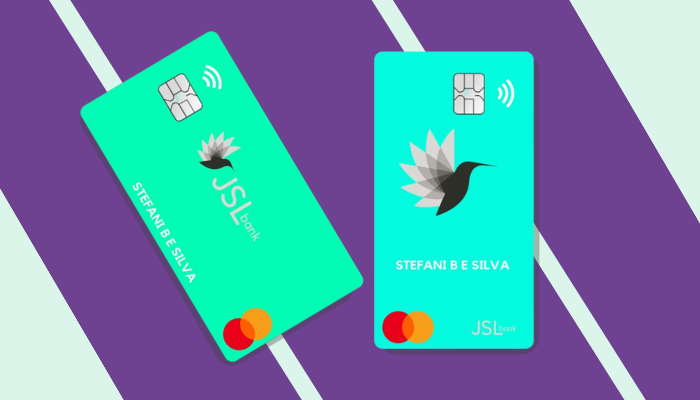
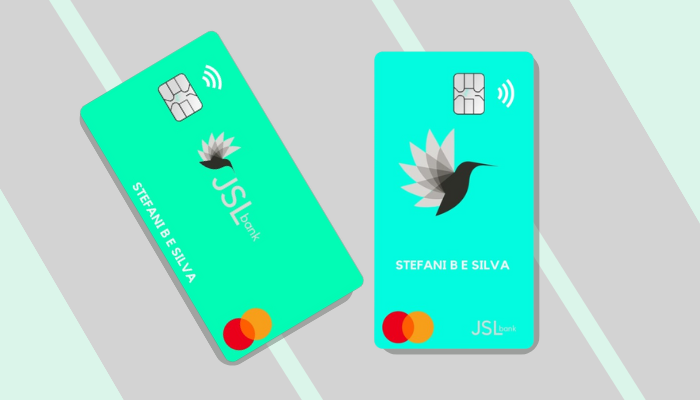
ajustes

diff --git a/styles.css b/styles.css
@@ -7,20 +7,17 @@
 body {
     font-family: 'Roboto', sans-serif;
     max-width: 100vw;
-    color: rgb(55, 19, 85);
-    background: linear-gradient(to bottom, rgba(214, 222, 255, 1) 0%, rgba(214, 222, 255, 1) 60%, rgba(181, 116, 171, 0.8) 90%, rgba(110, 66, 145, 1) 100%);
+    background-color: rgb(219, 245, 234);
+    /* Adaptei a cor de fundo para a sua preferência */
     margin: 0;
-    /* Define margens do corpo como 0 para evitar espaçamento padrão do navegador */
-
-
 }
 
-/* barra de navegação */
+/* Barra de navegação */
 .navbar {
-    background-color: rgba(110, 66, 145, 0.5);
+    background-color: rgba(211, 211, 211, 0.4);
     backdrop-filter: blur(20px);
     border: 1px solid rgba(2, 15, 7, 0.3);
-    box-shadow: 0px 0px 10px 2px rgba(6, 98, 236, 0.3);
+    box-shadow: 0px 0px 10px 2px rgba(2, 90, 53, 0.5);
 }
 
 .logo {
@@ -28,9 +25,8 @@ body {
 }
 
 .nav .nav-link:hover {
-    background-color: rgb(55, 19, 85);
+    background-color: #6A0572;
     color: rgb(95, 206, 95);
-
 }
 
 .nav .nav-link {
@@ -41,11 +37,8 @@ body {
     background-color: #28a745;
 }
 
-/* seção inicio */
+/* Seção Início */
 #sobre {
-
-    color: rgb(55, 19, 85);
-    ;
     align-items: center;
 }
 
@@ -53,10 +46,8 @@ body {
     max-height: 340px;
 }
 
-
-
-.jsl {
-    color: rgb(55, 19, 85);
+.jsl, .jsl2 {
+    color: #6A0572;
 }
 
 .jsl2 {
@@ -70,21 +61,27 @@ body {
 
 /* seção categorias */
 #categorias {
-
     backdrop-filter: blur(10px);
-
     padding-top: 4rem;
     padding-bottom: 3rem;
-
+    position: relative;
+    background-image: url('./images/banner2.png'); /* Substitua pelo caminho da sua imagem */
+    background-size: cover;
+    background-repeat: no-repeat;
+    background-attachment: fixed;
 }
 
 .section-title {
-    color: rgb(30, 5, 51);
-    ;
+    color: #6A0572;
     font-size: 2.5rem;
     font-weight: bold;
 }
 
+.section-title2 {
+    color: #DBF5EA;
+    font-size: 2.5rem;
+    font-weight: bold;
+}
 .text-center i {
     color: #28a745;
     /* Cor do ícone, ajuste conforme necessário */
@@ -97,17 +94,18 @@ body {
     line-height: 1.6;
     /* Ajusta o espaçamento entre linhas */
     margin-left: 12px;
+    color: rgb(13, 1, 24);
 }
 
 .cardcat:hover {
-    background-color: rgba(110, 66, 145, 1);
+    background-color: rgba(106, 5, 114, 0.5);
     transform: scale(1.04);
-    box-shadow: 0px 0px 6px 2px rgba(214, 222, 255, 0.5);
+    box-shadow: 0px 0px 10px 2px rgba(2, 90, 53, 0.5);
 }
 
 
 #service {
-    box-shadow: 0px 0px 10px 2px rgba(6, 98, 236, 0.3);
+    box-shadow: 0px 0px 10px 2px rgba(2, 90, 53, 0.5);
 
 }
 
@@ -120,15 +118,15 @@ aside {
 
 
 .nav-service .nav-link:hover {
-    background-color: rgba(55, 19, 85, 0.5);
+    background-color: #C4A3E9;
     transform: scale(1.02);
-    color: white;
-    box-shadow: 0px 0px 10px 2px rgba(6, 98, 236, 0.3);
+    color: #6A0572;
+    box-shadow: 0px 0px 10px 2px rgba(2, 90, 53, 0.5);
     transition: background-color 0.4s ease, transform 0.4s ease, color 0.4s ease, box-shadow 0.4s ease;
 }
 
 .nav-pills .nav-link.active {
-    background-color: rgb(55, 19, 85);
+    background-color: #6A0572;
     /* Substitua pela cor desejada */
     color: #25D366;
     /* Cor do texto na sua guia ativa */
@@ -136,23 +134,21 @@ aside {
 
 /* tab content */
 .card {
-    background-color: rgba(214, 222, 255, 0.5);
-    backdrop-filter: blur(10px);
+    background-color: rgba(255, 255, 255, 0.2);
+    backdrop-filter: blur(20px);
     /* Ajuste o valor do desfoque conforme necessário */
-    color: rgb(55, 19, 85);
-    box-shadow: 0px 0px 10px 2px rgba(6, 98, 236, 0.3);
+    color: #6A0572;
+    box-shadow: 0px 0px 10px 2px rgba(2, 90, 53, 0.5);
     transition: background-color 0.4s ease, transform 0.3s ease, color 0.3s ease, box-shadow 0.3s ease;
     font-weight: 600;
+    cursor: pointer;
 }
 
 .card:hover {
     backdrop-filter: blur(10px);
     /* Ajuste o valor do desfoque conforme necessário */
-    color: rgb(55, 19, 85);
-    box-shadow: 0px 0px 10px 2px rgba(6, 98, 236, 0.3);
-
+    box-shadow: 0px 0px 10px 2px rgba(2, 90, 53, 0.5);
     background-color: rgba(255, 255, 255, 1);
-
 }
 
 .card img {
@@ -182,9 +178,8 @@ aside {
 
 
 .titulo-card {
-    font-weight: 22px;
-    font-weight: 700;
-    color: rgb(55, 19, 85);
+    font-weight: 900;
+    color: #6A0572;
 
 }
 
@@ -195,12 +190,18 @@ aside {
 }
 
 #roadmap {
-    color: rgb(13, 1, 24);
-
-
-
+    position: relative;
+    background-image: url('./images/banner2.png'); /* Substitua pelo caminho da sua imagem */
+    background-size: cover;
+    background-repeat: no-repeat;
+    background-attachment: fixed;
 }
 
+
+/* Ajuste o espaçamento e outras propriedades conforme necessário */
+#roadmap .container {
+    padding: 20px 0; /* Ajuste o espaçamento superior e inferior conforme necessário */
+}
 
 #contato button {
     background-color: #25D366;
@@ -213,10 +214,10 @@ aside {
 }
 
 #contato {
-
+    background-color: #6A0572;
     backdrop-filter: blur(10px);
     box-shadow: 0px 0px 10px 2px rgba(6, 98, 236, 0.3);
-    color: rgba(214, 222, 255, 1);
+    color: #C4A3E9;
 }
 
 .formu {
@@ -233,7 +234,7 @@ aside {
 }
 
 .mail {
-    color: white;
+    color: #C4A3E9;
 }
 
 .mail:hover {
@@ -245,9 +246,8 @@ aside {
     margin-top: 8%;
 }
 
-footer {
+.footer {
     font-size: 14px;
-
 }
 
 @media (max-width=767px) {

diff --git a/index.html b/index.html
@@ -149,7 +149,7 @@
                             <div class="row">
                                 <div class="col-md-12 mb-2">
                                     <div class="card p-4 text-center">
-                                        <h5 class="titulo-card fs-2 fw-bold mt-3 mb-4">CONTAS</h5>
+                                        <h5 class="titulo-card fs-1 fw-bold mt-3 mb-4">CONTAS</h5>
                                         <div class="row align-items-center">
                                             <div class="col-md-6 text-start">
                                                 <div class="d-flex align-items-center mb-3">
@@ -205,7 +205,7 @@
                             <div class="row">
                                 <div class="col-md-12 mb-2">
                                     <div class="card p-4 text-center">
-                                        <h5 class="titulo-card fs-2 fw-bold mt-3 mb-4">INVESTWAY</h5>
+                                        <h5 class="titulo-card fs-1 fw-bold mt-3 mb-4">INVESTWAY</h5>
                                         <div class="row align-items-center">
                                             <div class="col-md-6 text-start">
                                                 <div class="d-flex align-items-center mb-3">
@@ -328,7 +328,7 @@
     <section id="contato" class="pt-2 pb-3">
         <div class="container">
             <div class="row">
-                <h2 class="text-center pt-4 pb-3 section-title">Abra sua conta</h2>
+                <h2 class="text-center pt-4 pb-3 section-title2">Abra sua conta</h2>
             </div>
             <div class="row justify-content-center">
                 <div class="col-md-5">
@@ -374,9 +374,12 @@
         </div>
     </section>
 
-    <footer class="text-center mt-3">
-        <p>Desenvolvido por <span class="pix">Pixe<span class="ele">l</span><span class="ele2">l</span>ers Studio</span>
-            - 2023&copy; </p>
+    <footer class="text-center">
+        <div class="footer">
+            <p class="mt-2">Desenvolvido por <span class="pix">Pixe<span class="ele">l</span><span class="ele2">l</span>ers Studio</span>
+                - 2023&copy; </p>
+        </div>
+        
     </footer>
 
     <!-- Scripts JavaScript (carregados no final do corpo para otimização) -->
